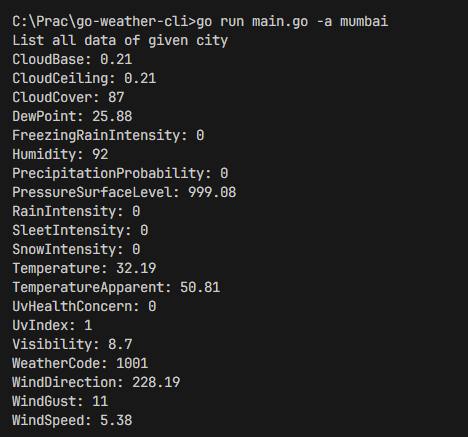
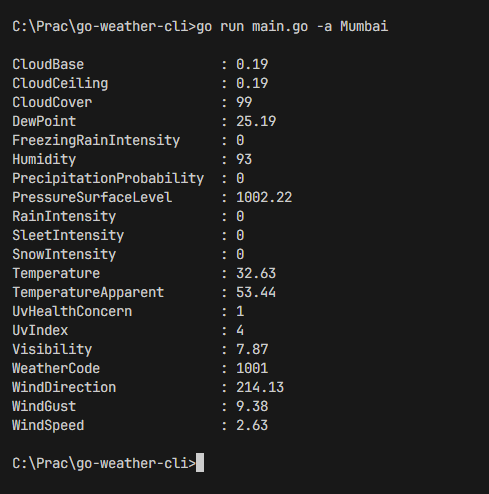
feat: Improve formatting for all data of a single city

Changed region(s): [[0.0, 0.0297, 0.8376, 0.9817], [0.4188, 0.2975, 0.4487, 0.3272], [0.2991, 0.5057, 0.3291, 0.5355]]

diff --git a/utils/WeatherAPIClient.go b/utils/WeatherAPIClient.go
@@ -9,6 +9,7 @@ import (
 	"net/url"
 	"os"
 	"reflect"
+	"strings"
 
 	"github.com/joho/godotenv"
 )
@@ -81,13 +82,27 @@ Print all the fields in the struct with its values
 func PrintAllWeatherDetails(apiData WeatherAPIResp) {
 	val := reflect.ValueOf(apiData.Data.Values)
 	typ := reflect.TypeOf(apiData.Data.Values)
+	numOfFields := typ.NumField()
 
-	for i := 0; i < val.NumField(); i++ {
-		field := val.Field(i)
-		fieldName := typ.Field(i).Name
-		fmt.Printf("%s: %v\n", fieldName, field)
+	// Find the maximum length of a field name
+	var maxlen int
+	for i := 0; i < numOfFields; i++ {
+		fieldLen := len(typ.Field(i).Name)
+		if fieldLen > maxlen {
+			maxlen = fieldLen
+		}
 	}
-	fmt.Print(apiData.Location.Name)
+	maxlen += 2
+
+	fmt.Println()
+	for i := 0; i < numOfFields; i++ {
+		fieldVal := val.Field(i).Interface()
+		fieldName := typ.Field(i).Name
+		fmt.Printf("%s", fieldName)
+		fmt.Print(strings.Repeat(" ", maxlen-len(fieldName)))
+		fmt.Printf(": %v", fieldVal)
+		fmt.Println()
+	}
 }
 
 func FetchAllWeatherDetails(location string) WeatherAPIResValues {
